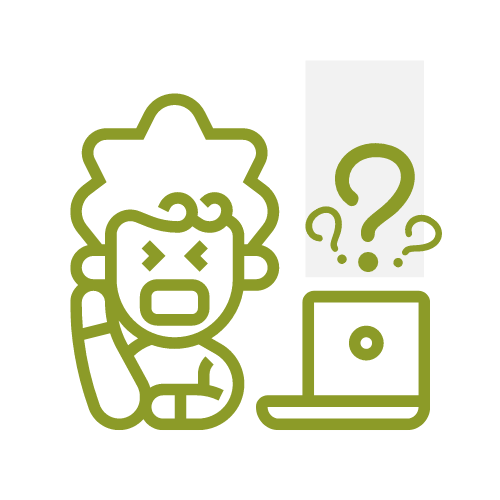
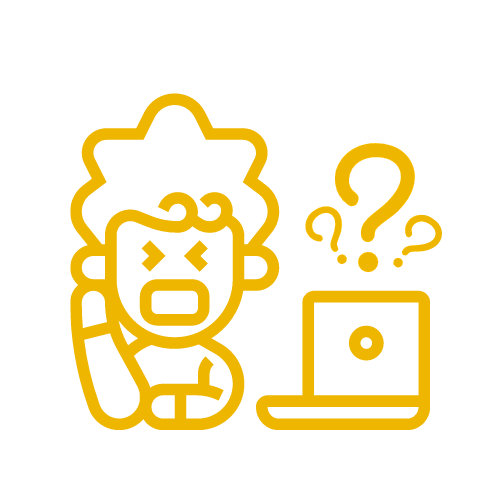
Changed color spectrum on images. Green->Yellow

Changed region(s): [[0.12, 0.18, 0.87, 0.87], [0.6, 0.27, 0.9, 0.54]]

diff --git a/index.html b/index.html
@@ -48,7 +48,7 @@
 
                     <div class="lead-wraper">
                         <div style="text-align: left;" class="lead">
-                            <p class="lead-text ">July 19-23   Free 5-Day Intensive 
+                            <p class="lead-text ">July 19-23   Free 5-Day Intensive
                             </p>
                         </div>
                         <img alt="Free Intensive.. Led by Jared Spool. Taking Control of Agile UX." src="images-aux/lead.gif" class="img-resp">
@@ -80,7 +80,7 @@
         <div class="container pad-d-2 ">
             <div class="grid26">
                 <div class="sec-il">
-                    <img src="images/value.png" class="img-resp" alt="Disappointed girl looking at notepad" >
+                    <img src="images-aux/value.png" class="img-resp" alt="Disappointed girl looking at notepad" >
                 </div>
                 <div class="sec-desc">
                     <h2 id="let-jared-spool-be-your-guide" class="h2-quotes ">Do you and your team want to research what your
@@ -99,7 +99,7 @@
                         leadership a voice in your&nbsp;organization?</h2>
                 </div>
                 <div class="sec-il">
-                    <img src="images/voice.png" class="img-resp" alt="Table with chairs." style="max-width: 250px;">
+                    <img src="images-aux/voice.png" class="img-resp" alt="Table with chairs." style="max-width: 250px;">
                 </div>
             </div>
         </div>
@@ -147,7 +147,7 @@
                             </span></p>
                     </div>
                 </div>
-               
+
                 <div class="sec-desc">
                     <h2 class="h2">  Get a seat at the table and the tools to get started once that seat is yours</h2>
                     <p>An experience vision puts your team in a position to make decisions about your organization’s
@@ -206,13 +206,13 @@
                                 Vision</strong></p>
                         </li>
                     </ul>
-                    
+
                     <p>Make sure you and your team come each day to learn everything you all need to drive the UX
                         direction for your organization.</p>
-                  
+
                 </div>
                 <div class="sec-il">
-                    <img src="images/side-people.png" class="img-resp" alt="Man and Woman. Man has a speech bubble with 'Let's go'. Girl has speech bubble with 'Yes'">
+                    <img src=images-aux/side-people.png" class="img-resp" alt="Man and Woman. Man has a speech bubble with 'Let's go'. Girl has speech bubble with 'Yes'">
                 </div>
             </div>
         </div>
@@ -222,7 +222,7 @@
         <div class="container pad-bottom-5">
             <div class="grid26">
                 <div class="sec-il-b hide-on-mobile">
-                    <img src="images/idea.png" class="img-resp" alt="Girl holding a lightbulb">
+                    <img src="images-aux/idea.png" class="img-resp" alt="Girl holding a lightbulb">
                 </div>
                 <div class="sec-desc-b">
                     <h3 id="do-the-work-and-get-inspired">Do the work and get inspired</h3>
@@ -243,7 +243,7 @@
                             href="https://leaders.centercentre.com/share/VEleVgSB31cZJkP0?utm_source=manual"><strong>join
                                 us for our Game-Changing Experience Visions intensive</strong></a>.</p>
                 </div>
-               
+
             </div>
         </div>
     </section>
@@ -310,7 +310,7 @@
                     </p>
                 </div>
                 <div class="sec-il">
-                    <img src="images/jared.png" class="img-resp" alt="Jared Spool">
+                    <img src="images-aux/jared.png" class="img-resp" alt="Jared Spool">
                 </div>
             </div>
         </div>
